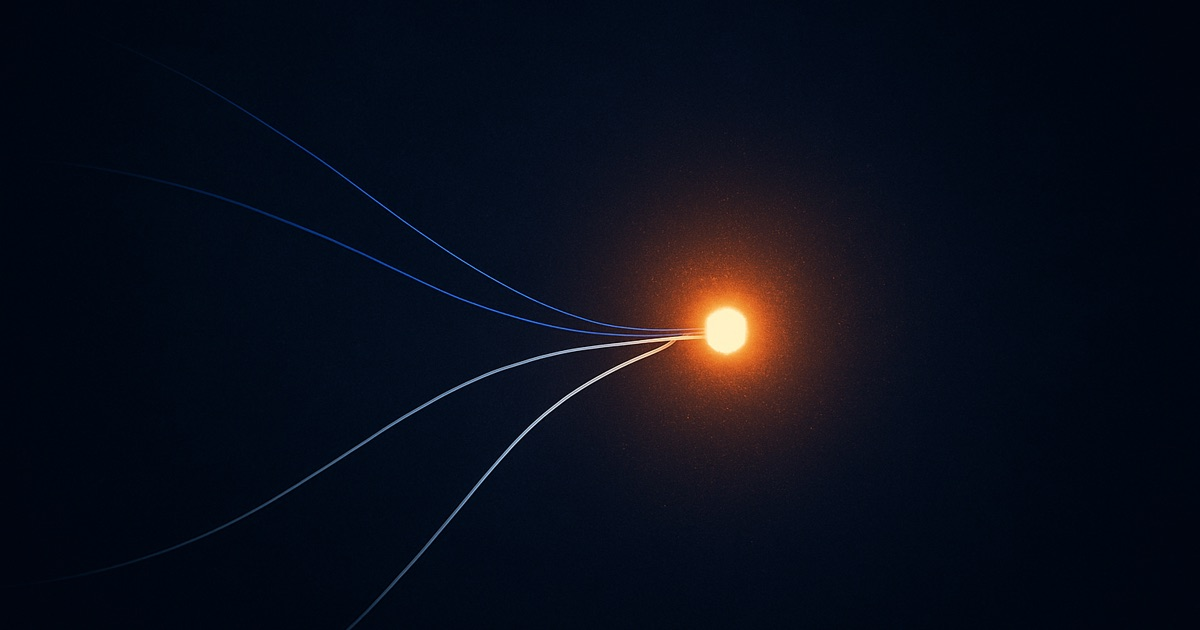
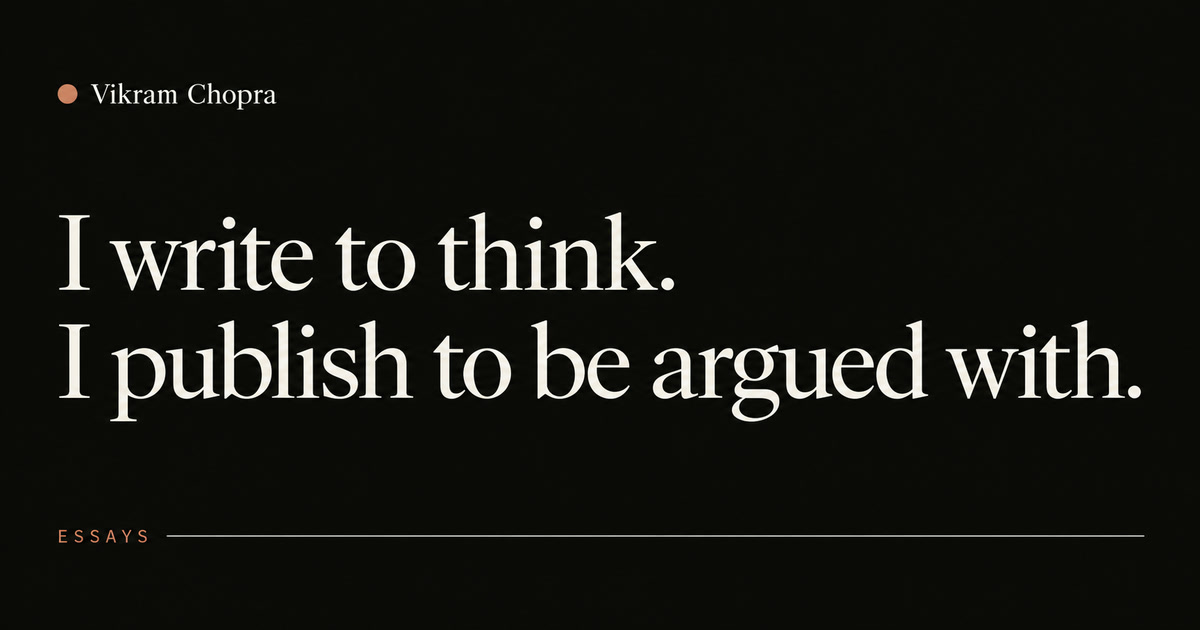
feat: update website social thumbnail

diff --git a/index.html b/index.html
@@ -13,7 +13,7 @@
     <meta property="og:description" content="Founder of Cars24. Essays on car ownership in India, trust as the product, AI-native companies, and staying clear-eyed while the stakes rise.">
     <meta property="og:type" content="website">
     <meta property="og:url" content="https://vikramchopra.in/">
-    <meta property="og:image" content="https://vikramchopra.in/media/site-social.jpg?v=2249fc1">
+    <meta property="og:image" content="https://vikramchopra.in/media/site-social.jpg?v=45bdd43">
     <meta property="og:image:width" content="1200">
     <meta property="og:image:height" content="630">
     <meta property="og:image:alt" content="Social preview for Essays by Vikram Chopra.">
@@ -21,7 +21,7 @@
     <meta name="twitter:card" content="summary_large_image">
     <meta name="twitter:title" content="Essays by Vikram Chopra">
     <meta name="twitter:description" content="Founder of Cars24. Essays on car ownership in India, trust as the product, AI-native companies, and staying clear-eyed while the stakes rise.">
-    <meta name="twitter:image" content="https://vikramchopra.in/media/site-social.jpg?v=2249fc1">
+    <meta name="twitter:image" content="https://vikramchopra.in/media/site-social.jpg?v=45bdd43">
     <meta name="twitter:image:alt" content="Social preview for Essays by Vikram Chopra.">
     <meta name="theme-color" content="#f4ecdf">
     <link rel="icon" type="image/svg+xml" href="/favicon.svg">
